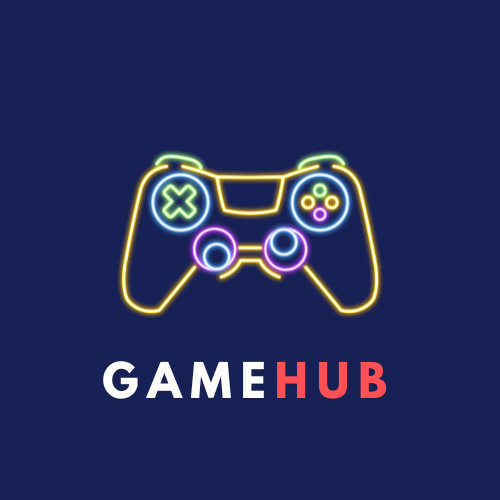
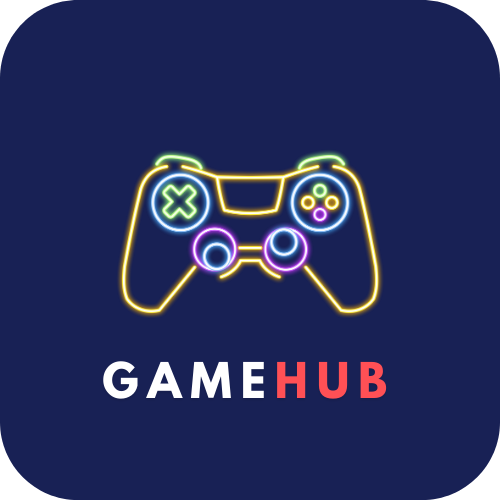
Adds a Switch to toggle color mode
- Adds switch component to toggle bw
light and dark mode
- Adds a rounded image for logo

diff --git a/game-hub/src/components/Navbar.tsx b/game-hub/src/components/Navbar.tsx
@@ -1,12 +1,13 @@
-import { HStack, Image, Text } from "@chakra-ui/react";
+import { HStack, Image } from "@chakra-ui/react";
 import logo from "../assets/GAMEHUB.png";
+import ColorModeSwitch from "./ColorModeSwitch";
 
 const Navbar = () => {
 	return (
 		<div>
-			<HStack>
+			<HStack justifyContent="space-between" padding="1rem">
 				<Image src={logo} boxSize="60px" />
-				<Text>GameHub</Text>
+				<ColorModeSwitch />
 			</HStack>
 		</div>
 	);

diff --git a/game-hub/src/components/ColorModeSwitch.tsx b/game-hub/src/components/ColorModeSwitch.tsx
@@ -1,0 +1,19 @@
+import { Switch, Text, HStack, useColorMode } from "@chakra-ui/react";
+
+const ColorModeSwitch = () => {
+	const { colorMode, toggleColorMode } = useColorMode();
+	return (
+		<div>
+			<HStack>
+				<Switch
+					isChecked={colorMode === "dark"}
+					colorScheme="red"
+					onChange={toggleColorMode}
+				/>
+				<Text>Dark Mode</Text>
+			</HStack>
+		</div>
+	);
+};
+
+export default ColorModeSwitch;

diff --git a/game-hub/src/App.tsx b/game-hub/src/App.tsx
@@ -13,13 +13,9 @@ function App() {
 				<GridItem area="nav">
 					<Navbar></Navbar>
 				</GridItem>
-				<GridItem area="main" bgColor={"blue"}>
-					Main
-				</GridItem>
+				<GridItem area="main">Main</GridItem>
 				<Show above="lg">
-					<GridItem area="aside" bgColor={"green"}>
-						Aside
-					</GridItem>
+					<GridItem area="aside">Aside</GridItem>
 				</Show>
 			</Grid>
 		</>
